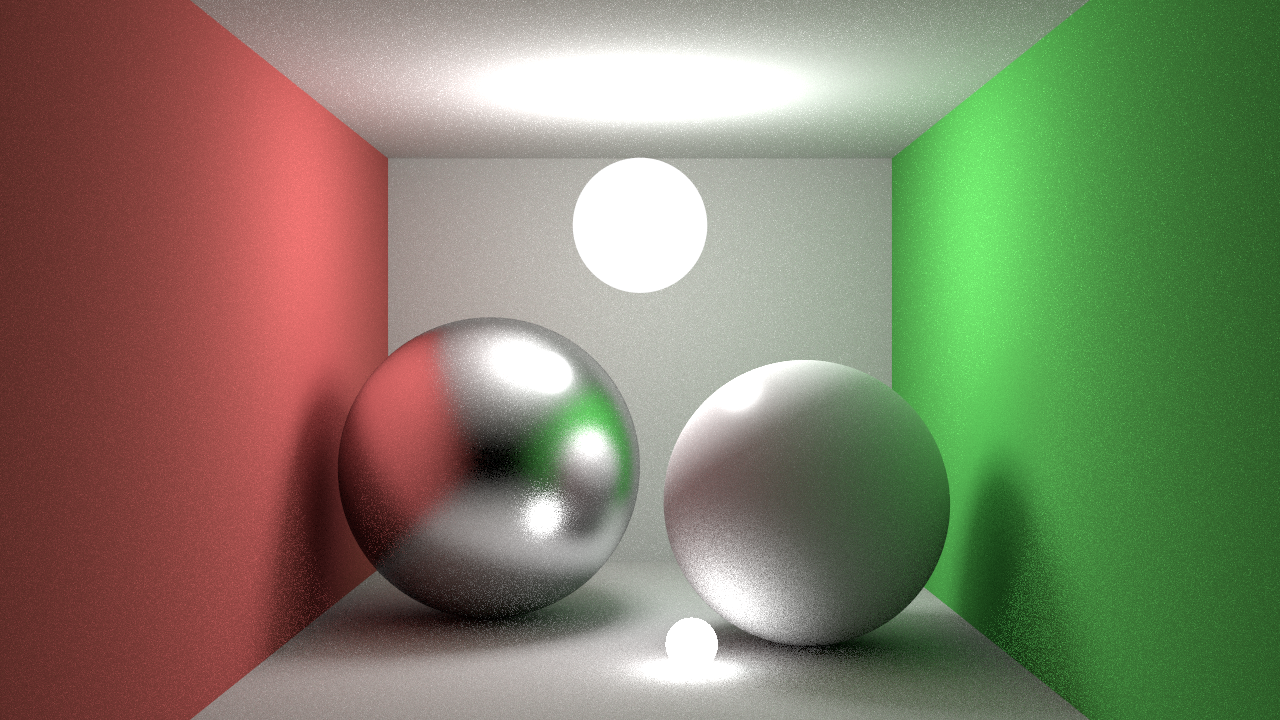
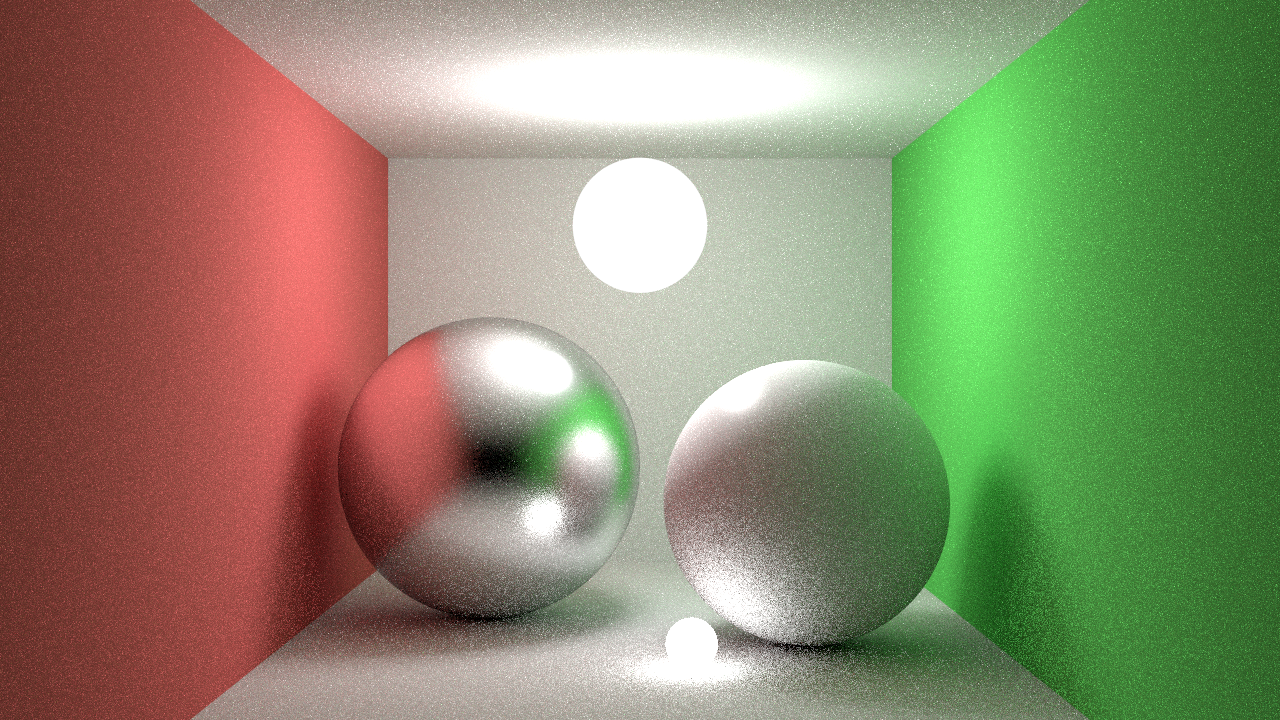
Added cosine weighted multi-sampling

Changed region(s): [[0.0, 0.0, 1.0, 1.0]]

diff --git a/src/materials.cpp b/src/materials.cpp
@@ -49,12 +49,13 @@ Color MtlBlinn::Shade(ShadeInfo const &shadeInfo) const
     const float thetaOffset{ shadeInfo.RandomFloat() };
     if (shadeInfo.CurrentBounce() < 2)
     {
-        constexpr size_t numSamples{ 4 };
+        constexpr size_t numSamples{ 2 };
         Color colorSum{ 0.0f };
         for (size_t i{ 0 }; i < numSamples; ++i)
         {
             const float phi{ 2.0f * M_PI * fmod(haltonSeqPhi[shadeInfo.CurrentPixelSample() + i] + phiOffset, 1.0f) };
-            const float cosTheta{ fmod(haltonSeqTheta[shadeInfo.CurrentPixelSample() + i] + thetaOffset, 1.0f) };
+            //const float cosTheta{ fmod(haltonSeqTheta[shadeInfo.CurrentPixelSample() + i] + thetaOffset, 1.0f) };
+            const float cosTheta{ sqrt(fmod(haltonSeqTheta[shadeInfo.CurrentPixelSample() + i] + thetaOffset, 1.0f)) };
             const float sinTheta{ sqrt(1.0f - cosTheta * cosTheta) };
 
             const float x{ sinTheta * cos(phi) };
@@ -67,7 +68,8 @@ Color MtlBlinn::Shade(ShadeInfo const &shadeInfo) const
             const Ray monteRay{ shadeInfo.P() + monteWorldDir * 0.0002f, monteWorldDir };
 
             float dist;
-            colorSum += shadeInfo.TraceSecondaryRay(monteRay, dist) * diffuseColor * cosTheta * 2.0f;
+            //colorSum += shadeInfo.TraceSecondaryRay(monteRay, dist) * diffuseColor * cosTheta * 2.0f;
+            colorSum += shadeInfo.TraceSecondaryRay(monteRay, dist) * diffuseColor;
         }
         finalColor += colorSum / static_cast<float>(numSamples);
     }
